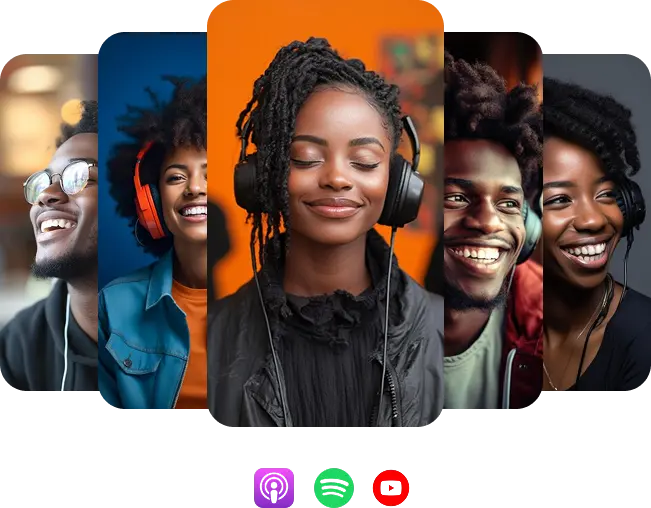
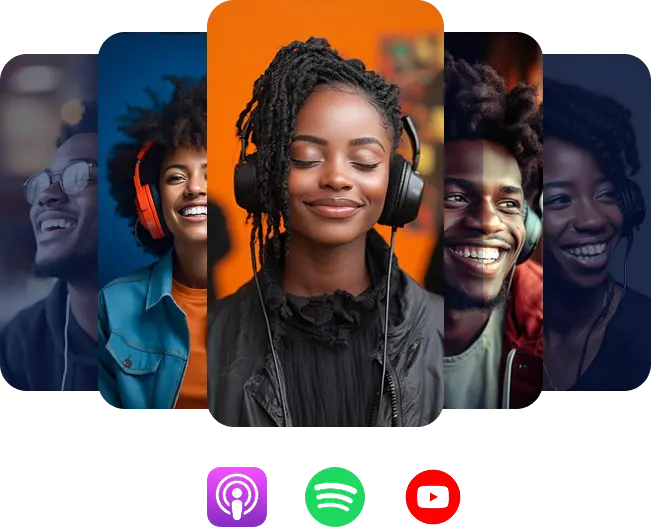
podcast section home  update

diff --git a/web/Onda_branca/src/app/components/home/podcasthome/podcasthome.html b/web/Onda_branca/src/app/components/home/podcasthome/podcasthome.html
@@ -1,8 +1,42 @@
 <div class="uk-section uk-section-large back">
     <div class="uk-container">
-        <div class="uk-child-width-1-2@l uk-grid">
+        <div class="uk-child-width-1-2@l uk-child-width-1-2@s uk-grid">
             <div>
-
+                <h2 class="uk-margin-remove titulo-metricas" style="font-family: 'Archivo';" uk-scrollspy="cls: uk-animation-slide-bottom; delay: 500">
+                    <span class="titulo-principal">Podcast Onda Branca <span class="linha"></span></span>
+                    <span class="uk-text-light"> <span style="color: white;"> Conversas inspiradoras sobre <span class="uk-text-primary" style="font-size: 35px; font-weight: bold;">saúde mental, bem-estar e produtividade</span></span></span>
+                </h2>
+                <p style="color: white; font-size: 16px;" uk-scrollspy="cls: uk-animation-slide-bottom; delay: 500">Descobre novas perspetivas e histórias reais que te ajudam a viver com mais equilíbrio.</p>
+                <div uk-accordion uk-scrollspy="cls: uk-animation-slide-bottom; delay: 500">
+                    <li>
+                        <a class="uk-accordion-title" style="color: white; font-family: 'Archivo'; font-weight: bold; border-bottom: 1px solid #21212167;"  href="">Ouvir direitamente no nosso site</a>
+                        <div class="uk-accordion-content" style="background-color: rgba(248, 248, 248, 0.32); padding: 20px; margin-top: 0; border-radius: 10px;">
+                            <p style="color: white;">Ouve os episódios completos aqui mesmo no site da Onda Branca — simples, gratuito e sem precisar sair da página.</p>
+                            <a [routerLink]="['/podcast-onda-branca']" style="background-color: white; color: #00479f;" class="uk-button uk-margin-small-top">Ouvir agora</a>
+                        </div>
+                    </li>
+                    <li>
+                        <a class="uk-accordion-title" style="color: white; font-family: 'Archivo'; font-weight: bold; border-bottom: 1px solid #21212167;"  href="">Ouvir no Spotify</a>
+                        <div class="uk-accordion-content" style="background-color: rgba(248, 248, 248, 0.32); padding: 20px; margin-top: 0; border-radius: 10px;">
+                            <p style="color: white;">O Podcast Onda Branca já está disponível no Spotify. Segue-nos para não perder nenhum episódio novo.</p>
+                            <a href="#" onclick="return false;" target="_blank" style="background-color: white; color: #00479f;" class="uk-button uk-margin-small-top">Abrir no Spotify</a>
+                        </div>
+                    </li>
+                    <li>
+                        <a class="uk-accordion-title" style="color: white; font-family: 'Archivo'; font-weight: bold; border-bottom: 1px solid #21212167;"  href="">Ouvir no Apple Podcast</a>
+                        <div class="uk-accordion-content" style="background-color: rgba(248, 248, 248, 0.32); padding: 20px; margin-top: 0; border-radius: 10px;">
+                            <p style="color: white">Também disponível no Apple Podcasts — acompanha as nossas conversas no teu dispositivo iOS preferido.</p>
+                            <a href="#" onclick="return false;" target="_blank" style="background-color: white; color: #00479f;" class="uk-button uk-margin-small-top">Abrir no Apple Podcasts</a>
+                        </div>
+                    </li>
+                    <li>
+                        <a class="uk-accordion-title" style="color: white; font-family: 'Archivo'; font-weight: bold; border-bottom: 1px solid #21212167;"  href="">Ver no Youtube</a>
+                        <div class="uk-accordion-content" style="background-color: rgba(248, 248, 248, 0.32); padding: 20px; margin-top: 0; border-radius: 10px;">
+                            <p style="color: white;">Vê as nossas conversas em vídeo no canal oficial da Onda Branca no YouTube.</p>
+                            <a href="#" onclick="return false;" target="_blank" style="background-color: white; color: #00479f;" class="uk-button uk-margin-small-top">Ver no YouTube</a>
+                        </div>
+                    </li>
+                </div>
             </div>
             <div>
                 <img data-src="/imagens/home/podcast-onda-branca.webp" uk-img alt="">

diff --git a/web/Onda_branca/src/app/components/home/podcasthome/podcasthome.css b/web/Onda_branca/src/app/components/home/podcasthome/podcasthome.css
@@ -4,3 +4,107 @@
   background-repeat: no-repeat;
   background-size: cover;
 }
+
+.titulo-principal {
+  font-size: 16px;
+  color: white;
+  font-weight: 300;
+  text-transform: uppercase;
+  position: relative;
+  display: inline-block;
+}
+
+.titulo-principal .linha {
+  content: '';
+  position: absolute;
+  bottom: -3px;
+  left: 0;
+  width: 50%;
+  height: 3px;
+  background: linear-gradient(90deg, #00aaff, #0d5a90);
+  display: block;
+  animation: grow 2s infinite alternate;
+}
+
+.titulo-metricas{
+  max-width: 750px;
+}
+
+@keyframes growMobile {
+  from { width: 0; }
+  to { width: 25%; }
+}
+
+@keyframes grow {
+    from { width: 20%; }
+    to { width: 80%; }
+}
+
+@media (max-width:768px) {
+
+  .titulo-principal{
+    display: block;
+  }
+  h2, .destaque{
+    font-size: 1.6rem !important;
+  }
+
+  .titulo-principal .linha{
+    width: 25%;
+    animation: growMobile 2s infinite alternate;
+  }
+}
+
+.uk-button {
+  text-transform: lowercase;   /* força tudo em minúsculas */
+}
+
+.uk-button::first-letter {
+  text-transform: uppercase;   /* só a primeira letra da frase em maiúscula */
+}
+
+
+.uk-button {
+  position: relative;
+  overflow: hidden;
+
+  transition: transform 0.3s ease, background-color 0.3s ease;
+  text-transform: lowercase;
+  font-size: 18px !important;
+  font-weight: 400 !important;
+  border: none !important;
+  border-radius: 5px;
+}
+
+/* efeito de espalhar/reagrupar */
+.uk-button::after {
+  content: "";
+  position: absolute;
+  top: 50%;
+  left: 50%;
+  width: 0;
+  height: 0;
+  background: #c467bf !important;
+  border-radius: 50%;
+  transform: translate(-50%, -50%);
+  z-index: -1;
+}
+
+/* animação quando hover */
+.uk-button:hover {
+  color: white !important;
+  border: none !important;
+  animation: spreadRegroup 600ms ease forwards;
+}
+
+@keyframes spreadRegroup {
+  0%   { transform: scale(1); }
+  40%  { transform: scale(1.08); } /* espalha */
+  100% { transform: scale(1); }   /* volta ao normal */
+}
+
+.uk-button:hover::after {
+  width: 250%;
+  height: 250%;
+  transition: width 0.4s ease, height 0.4s ease;
+}

diff --git a/web/Onda_branca/src/app/components/home/podcasthome/podcasthome.ts b/web/Onda_branca/src/app/components/home/podcasthome/podcasthome.ts
@@ -1,8 +1,9 @@
 import { Component } from '@angular/core';
+import { RouterLink } from "@angular/router";
 
 @Component({
   selector: 'app-podcasthome',
-  imports: [],
+  imports: [RouterLink],
   templateUrl: './podcasthome.html',
   styleUrl: './podcasthome.css'
 })
